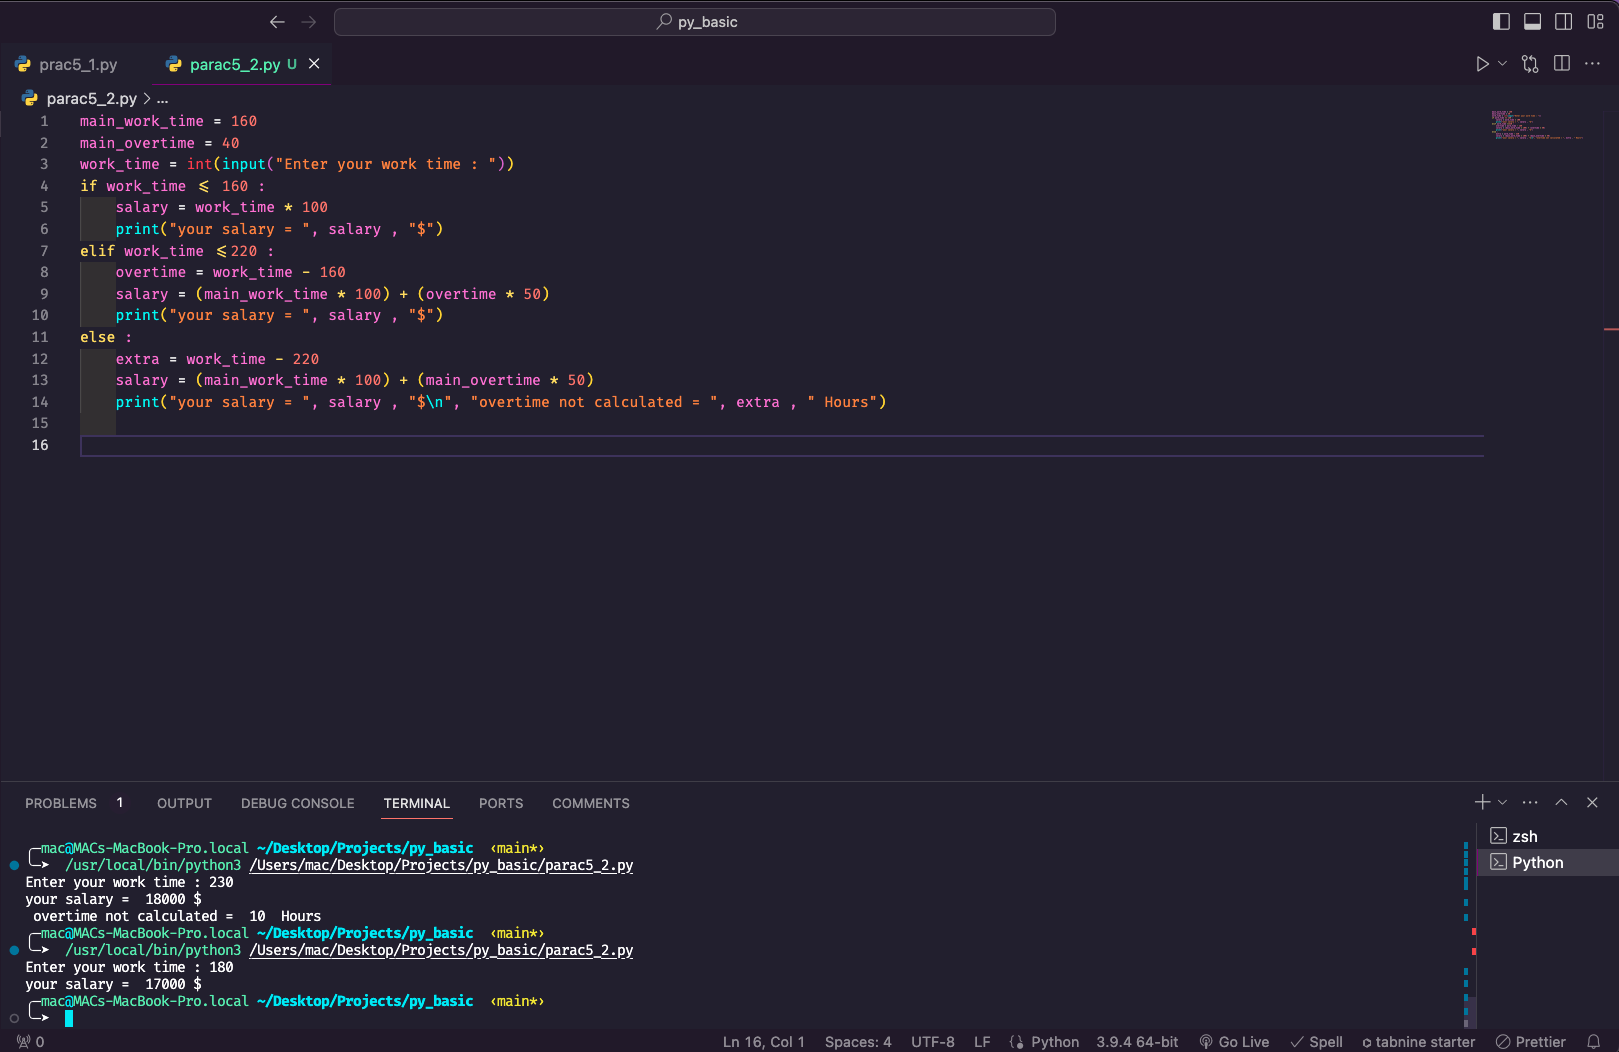
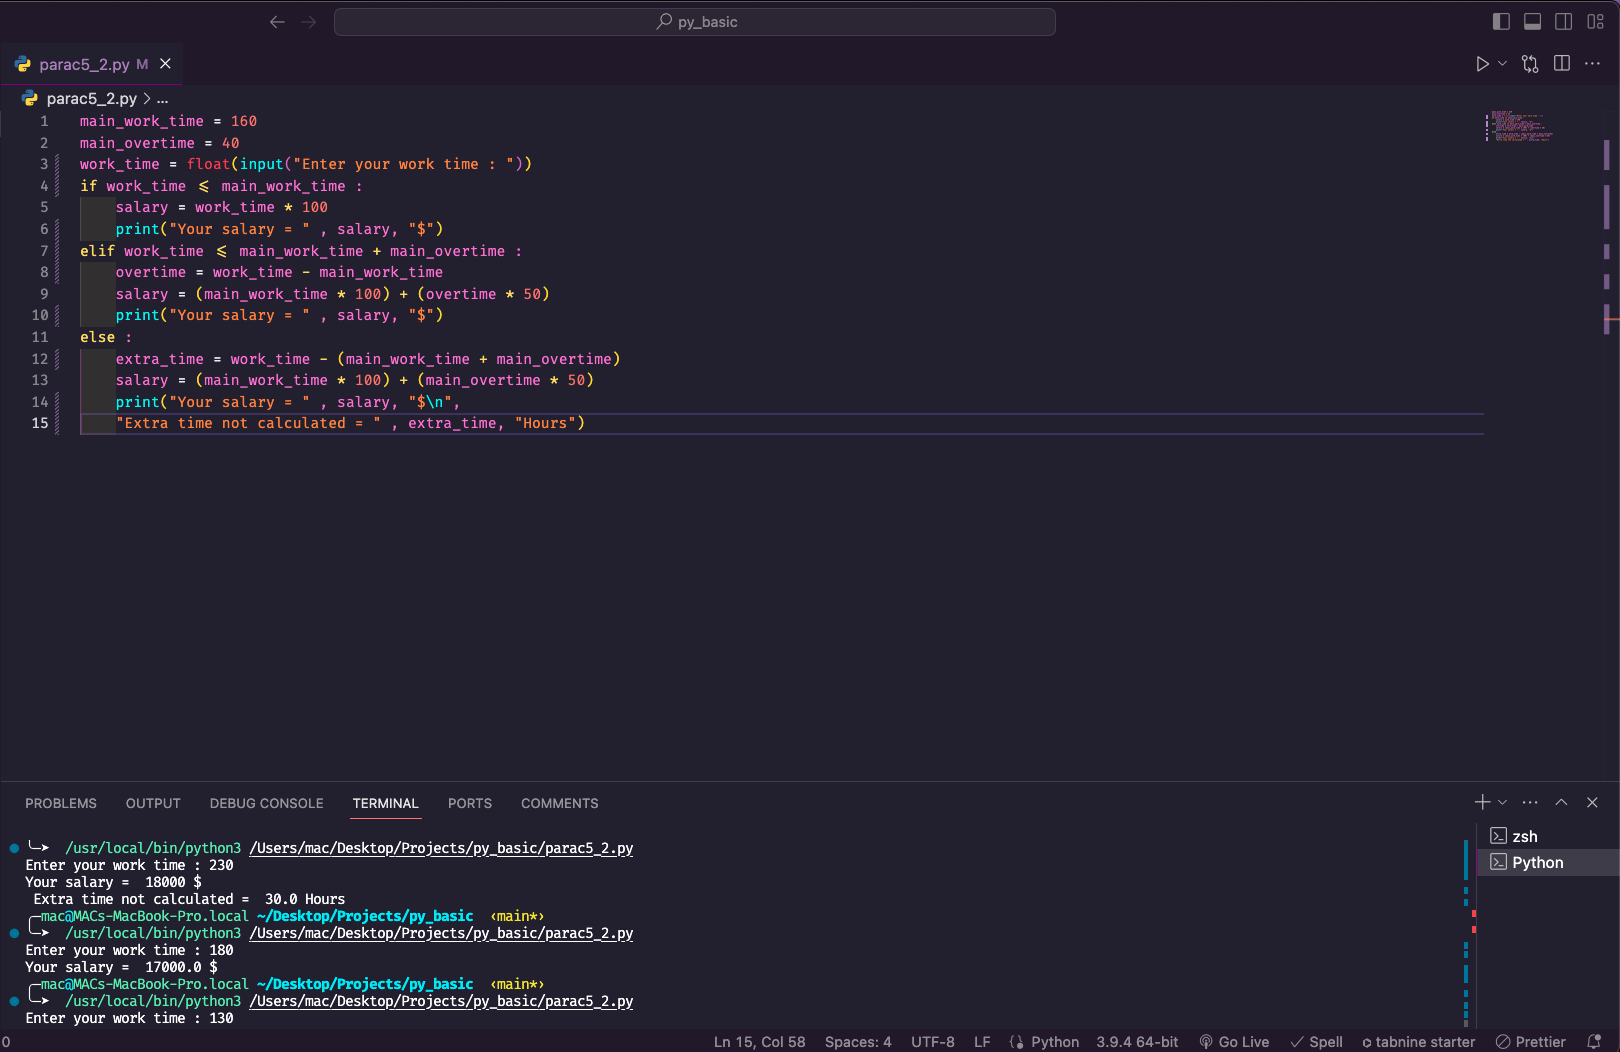
Calculation of employee salaries based on hours

diff --git a/prac5_2.py b/prac5_2.py
@@ -1,0 +1,15 @@
+main_work_time = 160
+main_overtime = 40
+work_time = float(input("Enter your work time : "))
+if work_time <= main_work_time :
+    salary = work_time * 100
+    print("Your salary = " , salary, "$")
+elif work_time <= main_work_time + main_overtime :
+    overtime = work_time - main_work_time
+    salary = (main_work_time * 100) + (overtime * 50)
+    print("Your salary = " , salary, "$")
+else :
+    extra_time = work_time - (main_work_time + main_overtime)
+    salary = (main_work_time * 100) + (main_overtime * 50)
+    print("Your salary = " , salary, "$\n",
+    "Extra time not calculated = " , extra_time, "Hours")
